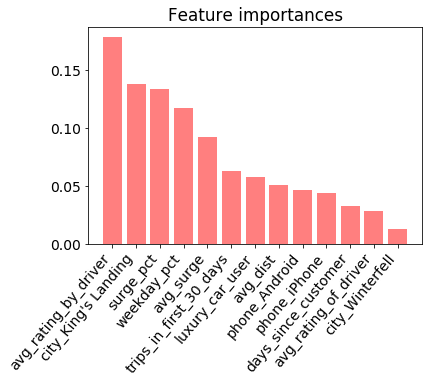
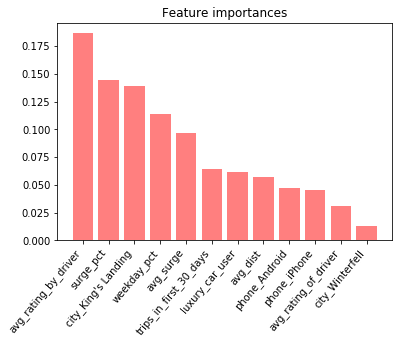
updated random forest model and added parametric description

Changed region(s): [[0.0299, 0.0, 0.9851, 0.9884], [0.1493, 0.9302, 0.1791, 0.9593]]

diff --git a/readme.md b/readme.md
@@ -1,19 +1,20 @@
 # Comparison of parametric and non-parametric models in predicting churn
-## John Herr
-## Joe Tustin
-## Carly Wolfbrandt
+### John Herr
+### Joe Tustin
+### Carly Wolfbrandt
 
-### Table of Contents
+## Table of Contents
 1. [Objective](#objective)
 2. [Exploratory Data Analysis](#eda)
-    1. [Dataset](#dataset) 
+    1. [Dataset](#dataset)
     2. [Data Cleaning](#cleaning)
     3. [Feature Engineering](#engineering)
 3. [Modelling](#model)
-    1. [Model Pipeline](#pipeline)
-    2. [Model Scoring](#scoring)
-    3. [Random Forest](#rf)
-    4. [Linear Regression](#lm)
+    1. [Non-Parametric](#non)
+        1. [XGboost](#boost)
+        2. [Random Forest](#rf)
+    2. [Parametric](#par)
+4. [Insights](#insight)
 
 ## Objective <a name="objective"></a>
 
@@ -28,22 +29,22 @@ A ride-sharing company (Company X) is interested in predicting rider retention. 
 Here is a detailed description of the data:
 
 ***CATEGORICAL***
-- `city`: city this user signed up in 
+- `city`: city this user signed up in
 - `phone`: primary device for this user
 
 ***NUMERICAL***
 - `signup_date`: date of account registration; in the form `YYYYMMDD`
 - `last_trip_date`: the last time this user completed a trip; in the form `YYYYMMDD`
 - `avg_dist`: the average distance (in miles) per trip taken in the first 30 days after signup
-- `avg_rating_by_driver`: the rider’s average rating by their drivers over all of their trips 
-- `avg_rating_of_driver`: the rider’s average rating of their drivers over all of their trips 
-- `surge_pct`: the percent of trips taken with surge multiplier > 1 
-- `avg_surge`: The average surge multiplier over all of this user’s trips 
-- `trips_in_first_30_days`: the number of trips this user took in the first 30 days after signing up 
+- `avg_rating_by_driver`: the rider’s average rating by their drivers over all of their trips
+- `avg_rating_of_driver`: the rider’s average rating of their drivers over all of their trips
+- `surge_pct`: the percent of trips taken with surge multiplier > 1
+- `avg_surge`: The average surge multiplier over all of this user’s trips
+- `trips_in_first_30_days`: the number of trips this user took in the first 30 days after signing up
 - `weekday_pct`: the percent of the user’s trips occurring during a weekday
-- `luxury_car_user`: TRUE if the user took a luxury car in their first 30 days; FALSE otherwise 
+- `luxury_car_user`: TRUE if the user took a luxury car in their first 30 days; FALSE otherwise
 
-**Table 1**: Initial dataset 
+**Table 1**: Initial dataset
 
 |    |   avg_dist |   avg_rating_by_driver |   avg_rating_of_driver |   avg_surge | city           | last_trip_date      | phone   | signup_date         |   surge_pct |   trips_in_first_30_days | luxury_car_user   |   weekday_pct |
 |---:|-----------:|-----------------------:|-----------------------:|------------:|:---------------|:--------------------|:--------|:--------------------|------------:|-------------------------:|:------------------|--------------:|
@@ -57,9 +58,9 @@ Here is a detailed description of the data:
 
 Table 2 shows the data types and number of null values for each column.
 
-**Table 2**: Initial data type and null value descriptions 
+**Table 2**: Initial data type and null value descriptions
 
- |   column name |   information | 
+ |   column name |   information |
  |---:|-----------:|
 |avg_dist  |                50000 non-null float64 |
 |avg_rating_by_driver   |   49799 non-null float64|
@@ -76,18 +77,18 @@ Table 2 shows the data types and number of null values for each column.
 
 There are 3 columns with null values, `avg_rating_by_driver`, `avg_rating_of_driver` and `phone`. These will need to be dealt with alongisde the incorrectly typed `signup_date` and `last_trip_date` columns.  Furthermore, the 2 categorical values, `city` and `phone` need to be converted to dummy variables.
 
-Figure 1 shows the correlation matrix for the features. 
+Figure 1 shows the correlation matrix for the features.
 
 ![](images/correlation_matrix.png)
 
 **Figure 1**: Correlation matrix for the features in the dataset
 
-The only features that seem strongly correlated are `surge_pct` and `avg_surge`. We decided to drop `avg_surge` since the `surge_pct` represents the percent of trips taken with surge multiplier > 1, which would be more indicative of someone who is paying more (and thus probably unhappy) than the `avg_surge` which is the average surge multiplier over all of the user’s trips.
+The only features that seem strongly correlated are `surge_pct` and `avg_surge`, therefore no features needed to be dropped.
 
 
-**Table 3**: Cleaned data type and null value descriptions 
+**Table 3**: Cleaned data type and null value descriptions
 
- |   column name |   information | 
+ |   column name |   information |
  |---:|-----------:|
 |avg_dist                |  50000 non-null float64|
 |avg_rating_by_driver    |  50000 non-null float64|
@@ -122,27 +123,62 @@ There was still no target value for modeling, since there was no feature corresp
 |  3 |       2.36 |                    4.9 |                    4.6 |        1.14 | 2014-06-29 00:00:00 | 2014-01-10 00:00:00 |        20   |                        9 | True              |          80   |                     1 |                 0 |               0 |              1 |                      2 | False   |                   172 |
 |  4 |       3.13 |                    4.9 |                    4.4 |        1.19 | 2014-03-15 00:00:00 | 2014-01-27 00:00:00 |        11.8 |                       14 | False             |          82.4 |                     0 |                 1 |               1 |              0 |                    108 | True    |                   155 |
 
-![](images/pairplot.png)
 
-**Figure 1**: Pairplot for the features in the dataset
+## Modelling <a name="model"></a>
 
+One parametric (logistic regression) and two non-parametric (XGboost and Random Forest) models were trained and compared.
 
-**Table 3**: Cleaned data type and null value descriptions 
+### Non-Parametric <a name="non"></a>
 
-| feature | importance|
-|:-----------------------|-----------:|
-| phone_Android          |  0.106989  |
-| avg_dist               |  0.0995247 |
-| avg_rating_by_driver   |  0.0379053 |
-| avg_rating_of_driver   |  0.0144364 |
-| avg_surge              |  0.0143644 |
-| weekday_pct            |  0.0113378 |
-| days_since_customer    | -0.0292387 |
-| surge_pct              | -0.0330836 |
-| city_Winterfell        | -0.127842  |
-| phone_iPhone           | -0.145512  |
-| luxury_car_user        | -0.211977  |
-| trips_in_first_30_days | -0.224234  |
-| city_King's Landing    | -0.34943   |
+Algorithms that do not make strong assumptions about the form of the mapping function are called nonparametric machine learning algorithms. By not making assumptions, they are free to learn any functional form from the training data.
 
+#### XGBoost <a name="boost"></a>
+
+![](images/feature_importance_grad_boost.png)
+
+**Figure 3**: Feature importances for the XGboost model
+
+Test Accuracy for XGBoost model: 78.8%
+
+Hyper Parameters:
+ - max_depth=2
+ - learning_rate=0.05
+ - n_estimators=2000
+ - subsample = .4
+
+#### Random Forest <a name="rf"></a>
+
+![](images/random_forest_importances.png)
+
+**Figure 4**: Feature importances for the random forest model
+
+Test Accuracy for Random Forest Model : 77.4%
+
+Hyper Parameters:
+ - n_estimators=200
+ - max_depth=10
+
+### Parametric <a name="par"></a>
+
+Assumptions can greatly simplify the learning process, but can also limit what can be learned. Algorithms that simplify the function to a known form are called parametric machine learning algorithms.
+
+#### Logistic Regression <a name="rf"></a>
+
+![](images/logit_features2.png)
+
+Test Accuracy for Random Forest Model : 70.8%
+
+## Insights <a name="insights"></a>
+
+`King's Landing`and `avg_rating_by_driver` both show up as high importance features in all 3 models.
+
+For interpretability, the logistic model feature graph is interesting as it shows which features are driving the target to no churn (negative coefficients) and which features are leading to churn (positive coefficients).  It looks like Android users and people who receive ratings from drivers are the churners.
+
+![](images/rating_by_driver.png)
+
+![](images/rating_of_driver.png)
+
+![](images/distance.png)
+
+![](images/surge_pct.png)
 
